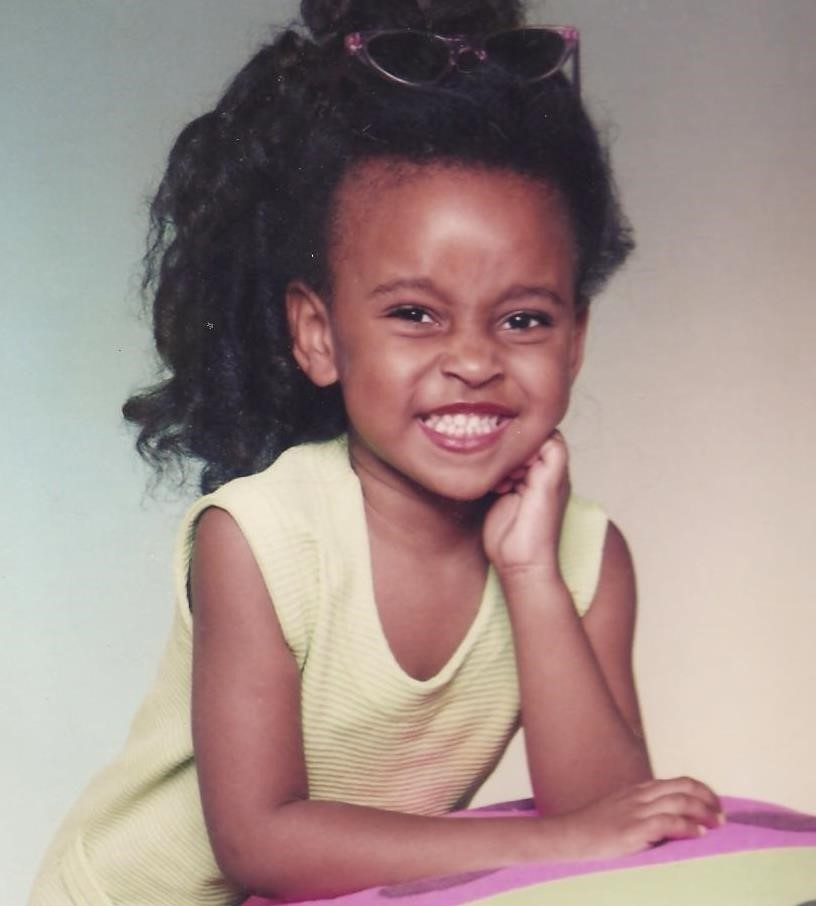
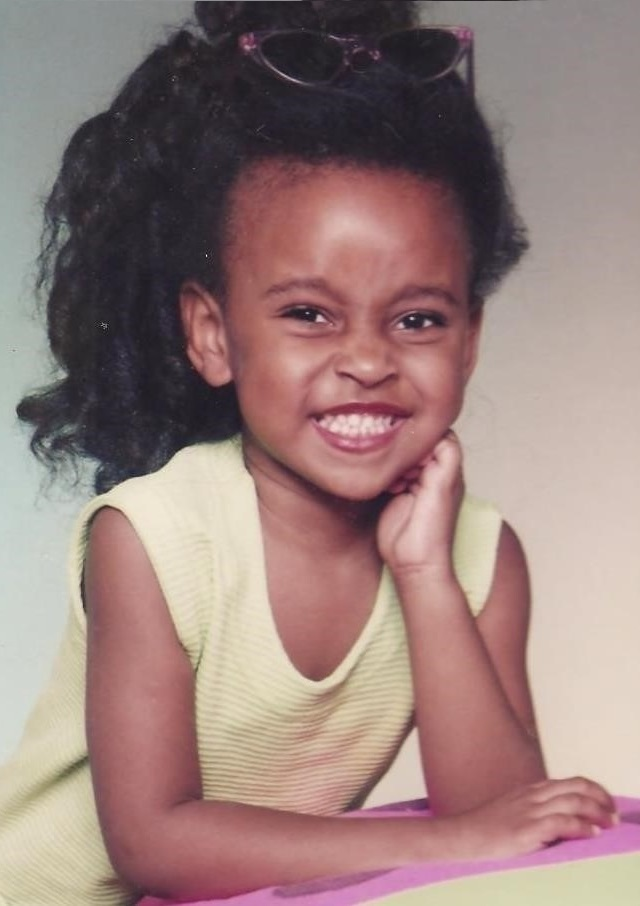
About me pictures (polaroid)

diff --git a/about-me.html b/about-me.html
@@ -132,18 +132,30 @@
             english, french and portuguese.
           </p>
         </div>
-        <div class="col-sm-5 polaroid text-center">
-          <img
-            src="/images/little.jpg"
-            class="img-fluid shadow rounded mt-4 mb-4"
-            alt="4 years old me"
-          />
+        <div class="col-sm-5 text-center">
+          <div class="row">
+            <div class="col-6 mt-4 mb-4">
+              <div class="container polaroid">
+                <img
+                  src="/images/little.jpg"
+                  class="img-fluid"
+                  alt="4 years old me"
+                /><br />
+                <p class="text-center">4 years old me</p>
+              </div>
+            </div>
 
-          <img
-            src="/images/adult.jpg"
-            class="img-fluid shadow rounded mt-4 mb-4"
-            alt="29 years old me"
-          />
+            <div class="col-6 mt-4 mb-4">
+              <div class="container polaroid">
+                <img
+                  src="/images/adult.jpg"
+                  class="img-fluid"
+                  alt="29 years old me"
+                />
+                <p class="text-center">29 years old me</p>
+              </div>
+            </div>
+          </div>
         </div>
       </div>
     </div>

diff --git a/src/style.css b/src/style.css
@@ -158,10 +158,23 @@ p {
   margin: 0;
 }
 
+.polaroid {
+  padding: 4px;
+  background-color: #ffffff;
+  box-shadow: var(--box-shadow);
+  width: 155px;
+}
+
 .polaroid img {
   max-width: 180px;
-  margin: 10px;
+  height: 200px;
+  margin: 0;
   padding: 0;
+}
+.polaroid p {
+  padding: 0;
+  max-width: 130px;
+  margin: 0 auto;
 }
 
 .prior-link {
